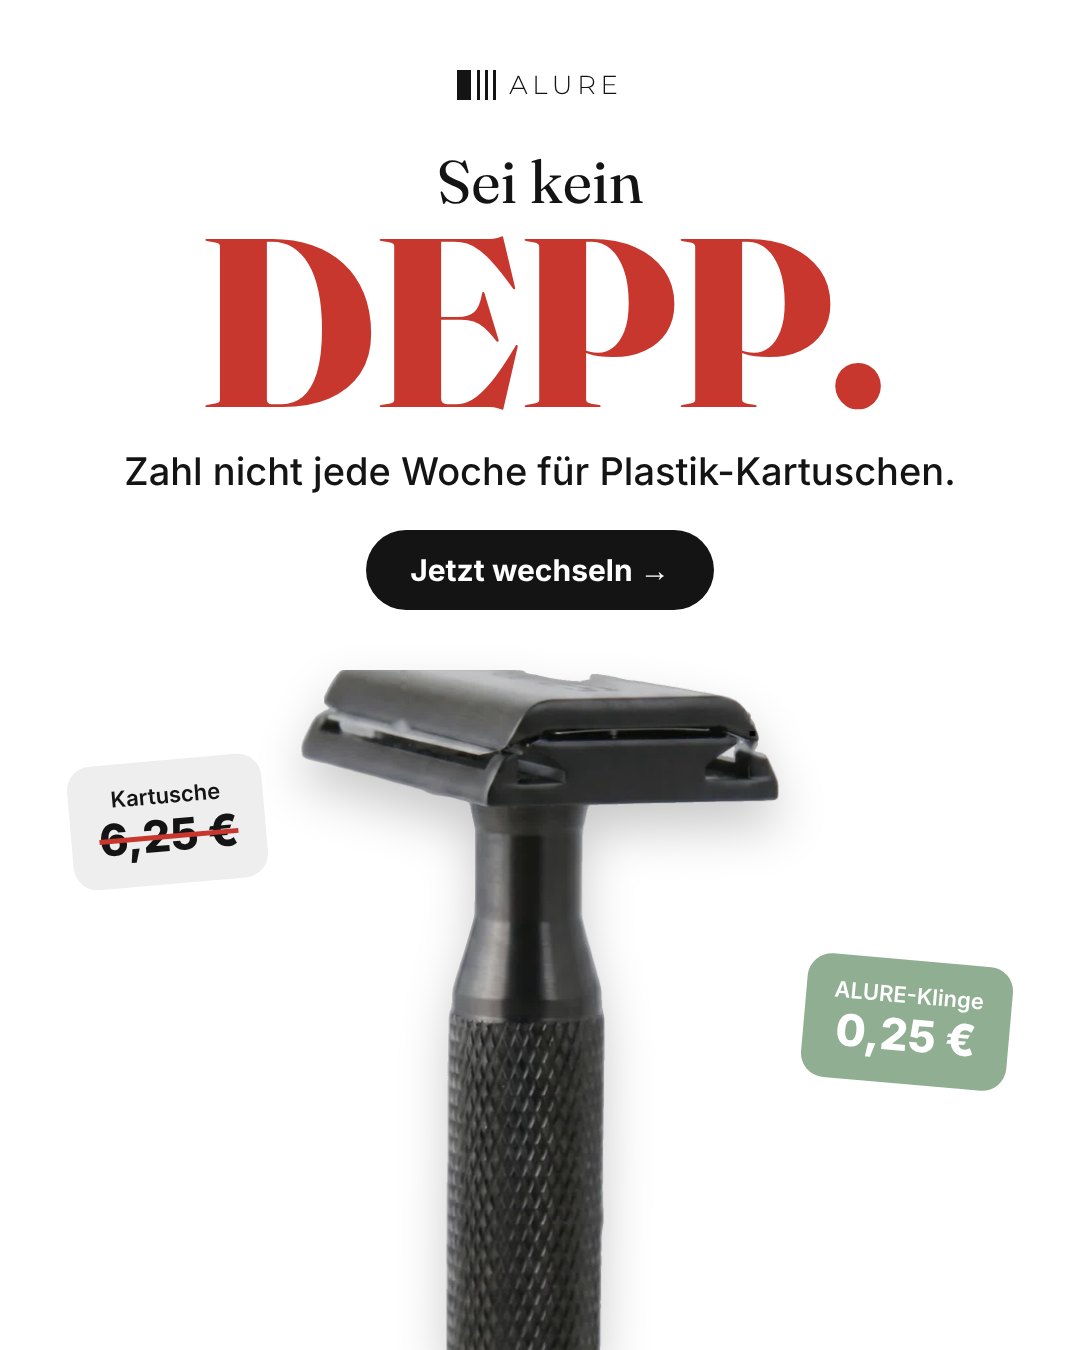
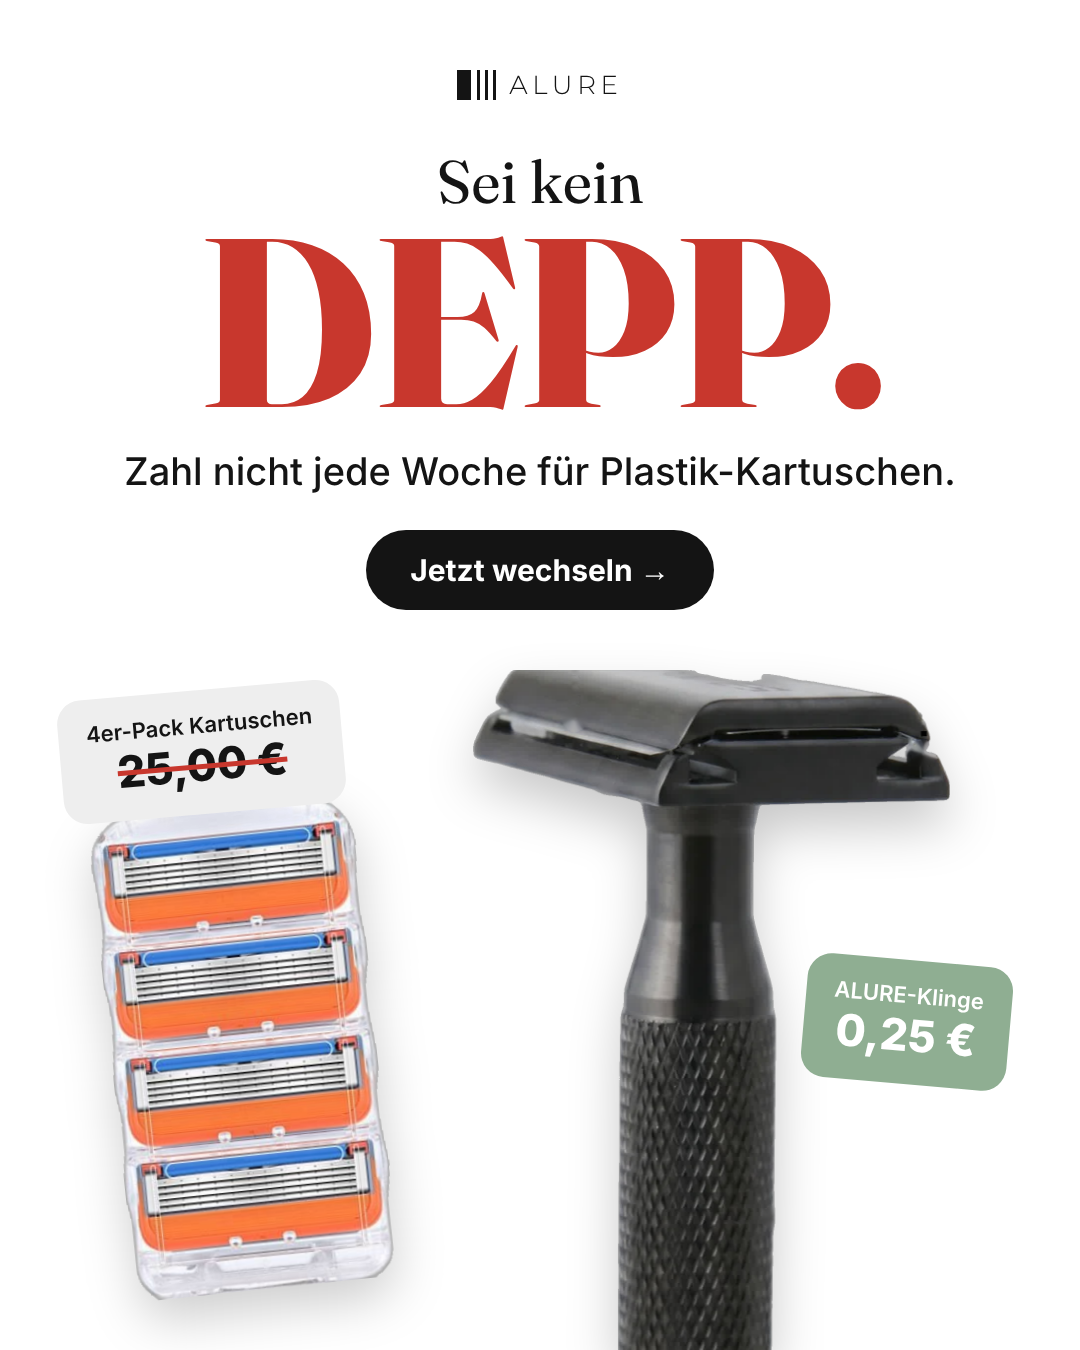
ALURE statics: add competitor razors and cartridges to comparison ads
Claude-Session: https://claude.ai/code/session_019RHRmcEqu6spiYr2K31vQX

Changed region(s): [[0.0611, 0.4978, 0.8861, 1.0]]

diff --git a/marketing/alure-statics-de/source-fr.html b/marketing/alure-statics-de/source-fr.html
@@ -47,6 +47,9 @@ img{display:block}
     <div class="logo"><b></b><i></i><i></i><i></i><span>ALURE</span></div>
     <p style="font-size:30px;margin-top:20px;font-weight:600">Une lame. Format standard.<br>Zéro abonnement cartouches.</p>
   </div>
+  <img src="source-assets/cartridge_head.png" style="position:absolute;left:80px;top:730px;width:400px;filter:drop-shadow(0 20px 25px rgba(0,0,0,.2))">
+  <div style="position:absolute;left:80px;top:910px;font-size:24px;font-weight:700;letter-spacing:.12em;color:var(--red)">CARTOUCHE · 5 LAMES</div>
+  <div style="position:absolute;right:60px;top:615px;width:466px;text-align:center;font-size:24px;font-weight:700;letter-spacing:.12em;color:var(--sage-d)">ALURE · 1 LAME</div>
 </section>
 
 <!-- 03 DON'T BE AN IDIOT -->
@@ -57,9 +60,10 @@ img{display:block}
     <div class="serif" style="font-size:240px;line-height:.85;font-weight:800;color:var(--red);letter-spacing:-.02em;font-size:200px">PIGEON.</div>
     <p style="font-size:38px;margin-top:26px;font-weight:500">Arrête de payer des cartouches en plastique.</p>
   </div>
-  <img src="source-assets/razor_black.png" style="position:absolute;left:50%;transform:translateX(-50%);bottom:0;height:680px;filter:drop-shadow(0 25px 25px rgba(0,0,0,.22))">
-  <div style="position:absolute;left:70px;top:760px;background:#eee;border-radius:24px;padding:22px 28px;transform:rotate(-5deg);text-align:center">
-    <div style="font-size:22px;font-weight:600">Cartouche</div><div style="font-size:44px;font-weight:800;text-decoration:line-through;text-decoration-color:var(--red);text-decoration-thickness:5px">6,25 €</div>
+  <img src="source-assets/razor_black.png" style="position:absolute;right:130px;bottom:0;height:680px;filter:drop-shadow(0 25px 25px rgba(0,0,0,.22))">
+  <img src="source-assets/cartridge_pack.png" style="position:absolute;left:110px;bottom:60px;height:500px;transform:rotate(-6deg);filter:drop-shadow(0 20px 25px rgba(0,0,0,.2))">
+  <div style="position:absolute;left:60px;top:690px;background:#eee;border-radius:24px;padding:22px 28px;transform:rotate(-5deg);text-align:center;z-index:2">
+    <div style="font-size:22px;font-weight:600">Lot de 4 cartouches</div><div style="font-size:44px;font-weight:800;text-decoration:line-through;text-decoration-color:var(--red);text-decoration-thickness:5px">25,00 €</div>
   </div>
   <div style="position:absolute;right:70px;top:960px;background:var(--sage);color:#fff;border-radius:24px;padding:22px 28px;transform:rotate(5deg);text-align:center">
     <div style="font-size:22px;font-weight:600">Lame ALURE</div><div style="font-size:44px;font-weight:800">0,25 €</div>
@@ -156,7 +160,7 @@ img{display:block}
   <div style="padding:70px 60px 30px;display:flex;justify-content:space-between;align-items:flex-end"><div style="font-size:64px;font-weight:900;letter-spacing:-.02em">Tier list des rasoirs</div><div style="font-size:22px;opacity:.6">(notre avis, assumé)</div></div>
   <div style="margin:0 60px" id="tiers"></div>
   <div class="foot" style="color:#fff"><div class="logo"><b></b><i></i><i></i><i></i><span>ALURE</span></div><div class="url">byalure.com</div></div>
-  <script>[["S","#e57373",'<div style="border-radius:10px;width:110px;height:150px;background:#dadde1;position:relative;overflow:hidden;flex:none"><img src="source-assets/razor_black.png" style="position:absolute;bottom:0;left:50%;transform:translateX(-50%);height:140px"></div> <span>Rasoir de sûreté à lame bloquée</span>'],["A","#f0a868","<span>Rasoir de sûreté classique</span>"],["B","#f3d36b","<span>Rasoir électrique</span>"],["C","#a5d68a","<span>Rasoir 5 lames à cartouches</span>"],["D","#7fb3e0","<span>Rasoir jetable en plastique</span>"]].forEach(t=>document.getElementById('tiers').insertAdjacentHTML('beforeend',`<div style="display:flex;min-height:${t[0]=='S'?190:170}px;margin-bottom:8px"><div style="width:170px;background:${t[1]};display:flex;align-items:center;justify-content:center;font-size:84px;font-weight:900;color:#161616">${t[0]}</div><div style="flex:1;background:#262626;display:flex;align-items:center;gap:26px;padding:0 30px;font-size:34px;font-weight:600">${t[2]}</div></div>`))</script>
+  <script>[["S","#e57373",'<div style="border-radius:10px;width:110px;height:150px;background:#dadde1;position:relative;overflow:hidden;flex:none"><img src="source-assets/razor_black.png" style="position:absolute;bottom:0;left:50%;transform:translateX(-50%);height:140px"></div> <span>Rasoir de sûreté à lame bloquée</span>'],["A","#f0a868",'<div style=\'width:110px;height:150px;background:#dadde1;border-radius:10px;display:flex;align-items:center;justify-content:center;flex:none\'><img src=\'source-assets/classic_safety.png\' style=\'max-width:95px;max-height:135px\'></div> <span>Rasoir de sûreté classique</span>'],["B","#f3d36b","<span>Rasoir électrique</span>"],["C","#a5d68a",'<div style=\'width:110px;height:150px;background:#dadde1;border-radius:10px;display:flex;align-items:center;justify-content:center;flex:none\'><img src=\'source-assets/five_blade.png\' style=\'max-width:95px;max-height:135px\'></div> <span>Rasoir 5 lames à cartouches</span>'],["D","#7fb3e0",'<div style=\'width:110px;height:150px;background:#dadde1;border-radius:10px;display:flex;align-items:center;justify-content:center;flex:none\'><img src=\'source-assets/disposable.png\' style=\'max-width:95px;max-height:135px\'></div> <span>Rasoir jetable en plastique</span>']].forEach(t=>document.getElementById('tiers').insertAdjacentHTML('beforeend',`<div style="display:flex;min-height:${t[0]=='S'?190:170}px;margin-bottom:8px"><div style="width:170px;background:${t[1]};display:flex;align-items:center;justify-content:center;font-size:84px;font-weight:900;color:#161616">${t[0]}</div><div style="flex:1;background:#262626;display:flex;align-items:center;gap:26px;padding:0 30px;font-size:34px;font-weight:600">${t[2]}</div></div>`))</script>
 </section>
 
 <!-- 11 VENN DIAGRAM -->
@@ -344,7 +348,7 @@ img{display:block}
   <div style="position:absolute;left:70px;top:70px;background:var(--ink);color:#fff;padding:12px 26px;border-radius:12px;font-weight:800;font-size:26px;letter-spacing:.1em">ALURE</div>
   <h1 style="position:absolute;left:70px;right:70px;top:150px;font-size:76px;line-height:1.02;font-weight:900;letter-spacing:-.02em">5 SIGNES QUE TU UTILISES LE MAUVAIS RASOIR</h1>
   <div id="signs" style="position:absolute;left:70px;top:520px;width:450px"></div>
-  <img src="source-assets/razor_black.png" style="position:absolute;right:20px;bottom:0;height:760px">
+  <img src="source-assets/five_blade.png" style="position:absolute;right:120px;top:560px;height:720px;transform:rotate(8deg);filter:drop-shadow(0 20px 25px rgba(0,0,0,.2))">
   <script>["Tu rachètes des cartouches tous les mois.","Ton rasoir est en plastique.","Tu dois appuyer fort pour qu'il coupe.","Après rinçage, il reste encore des poils coincés.","Tu ne sais pas combien il te coûte par an."].forEach((s,i)=>document.getElementById('signs').insertAdjacentHTML('beforeend',`<div style="display:flex;gap:22px;align-items:flex-start;margin-bottom:30px"><div style="min-width:60px;height:60px;border-radius:50%;background:var(--sage-d);color:#fff;display:flex;align-items:center;justify-content:center;font-weight:800;font-size:30px">${i+1}</div><div style="font-size:33px;font-weight:600;line-height:1.25;padding-top:8px">${s}</div></div>`))</script>
 </section>
 
@@ -400,7 +404,7 @@ img{display:block}
   <div style="position:absolute;inset:0;background:#f5f5f5;padding:60px 50px">
     <div style="background:#fff;border:1px solid #ddd;border-radius:14px;padding:16px 26px;font-size:24px;color:#555">🔍 &nbsp;cartouches rasoir lot de 4</div>
     <div style="display:flex;gap:30px;margin-top:40px">
-      <div style="width:260px;height:260px;background:#e3eaf3;border-radius:14px;display:flex;align-items:center;justify-content:center;font-size:120px">📦</div>
+      <div style="width:260px;height:260px;background:#fff;border:1px solid #e3e3e3;border-radius:14px;display:flex;align-items:center;justify-content:center;flex:none"><img src="source-assets/cartridge_pack.png" style="max-height:236px"></div>
       <div style="font-size:30px;line-height:1.4"><div style="font-weight:700">Cartouches 5 lames, lot de 4</div><div style="color:#888">★★★★☆ (2.413)</div><div style="font-size:64px;font-weight:800;color:#B12704;margin-top:10px">25,00 €</div><div style="color:#888">6,25 € / pièce</div></div>
     </div>
   </div>
@@ -434,7 +438,8 @@ img{display:block}
       <div style="display:flex;justify-content:space-between;font-weight:700;font-size:34px"><span>TOTAL</span><span style="color:var(--sage-d)">74,00</span></div>
     </div>
   </div>
-  <img src="source-assets/razor_silver.png" style="position:absolute;left:50%;transform:translateX(-50%);bottom:0;height:380px;filter:drop-shadow(0 20px 24px rgba(0,0,0,.18))">
+  <img src="source-assets/five_blade.png" style="position:absolute;left:222px;bottom:40px;height:360px;filter:drop-shadow(0 20px 25px rgba(0,0,0,.2))">
+  <img src="source-assets/razor_silver.png" style="position:absolute;left:674px;bottom:0;height:380px;filter:drop-shadow(0 20px 24px rgba(0,0,0,.18))">
   <div class="fn" style="position:absolute;left:70px;right:70px;top:905px;text-align:center">Calcul d'exemple : 1 cartouche toutes les 2 semaines, lot de 4 à 25 €. Les prix varient selon les magasins.</div>
 </section>
 
@@ -473,6 +478,8 @@ img{display:block}
     <p style="font-size:38px;line-height:1.35;margin-top:36px;max-width:820px">Ça marche aussi avec <b>une seule</b> lame. Bien serrée, angle déjà réglé, et sans abonnement.</p>
   </div>
   <img src="source-assets/razor_silver.png" style="position:absolute;right:90px;bottom:0;height:680px;filter:drop-shadow(0 30px 30px rgba(0,0,0,.18))">
+  <img src="source-assets/five_blade.png" style="position:absolute;left:130px;top:690px;height:430px;transform:rotate(-8deg);filter:drop-shadow(0 20px 25px rgba(0,0,0,.2))">
+  <svg style="position:absolute;left:330px;top:840px" width="170" height="80" fill="none" stroke="#4F6E55" stroke-width="8" stroke-linecap="round" stroke-linejoin="round"><path d="M10 40 H150"/><path d="M118 10 L152 40 L118 70"/></svg>
   <div style="position:absolute;left:80px;bottom:90px"><div class="cta">Voir comment ça marche →</div></div>
 </section>
 
@@ -496,6 +503,8 @@ img{display:block}
     <div class="cta" style="background:var(--sage-d);margin-top:40px">VOIR LE RASOIR</div>
   </div>
   <img src="source-assets/razor_silver.png" style="position:absolute;right:40px;bottom:0;height:640px;filter:drop-shadow(0 30px 30px rgba(0,0,0,.2))">
+  <img src="source-assets/cartridge_pack.png" style="position:absolute;left:90px;bottom:130px;height:360px;filter:drop-shadow(0 20px 25px rgba(0,0,0,.2))">
+  <div style="position:absolute;left:300px;bottom:330px;background:#eee;border-radius:20px;padding:14px 22px;font-size:28px;font-weight:800;transform:rotate(-4deg)">Lot de 4 : 25 €</div>
   <div class="fn" style="position:absolute;left:70px;right:500px;bottom:40px">Calcul d'exemple : 1 cartouche toutes les 2 semaines, lot de 4 à 25 € · 100 lames ALURE à 25 € durent environ deux ans.</div>
 </section>
 

diff --git a/marketing/alure-statics-de/source-de.html b/marketing/alure-statics-de/source-de.html
@@ -47,6 +47,9 @@ img{display:block}
     <div class="logo"><b></b><i></i><i></i><i></i><span>ALURE</span></div>
     <p style="font-size:30px;margin-top:20px;font-weight:600">Eine Klinge. Standardgröße.<br>Kein Kartuschen-Abo.</p>
   </div>
+  <img src="source-assets/cartridge_head.png" style="position:absolute;left:80px;top:730px;width:400px;filter:drop-shadow(0 20px 25px rgba(0,0,0,.2))">
+  <div style="position:absolute;left:80px;top:910px;font-size:24px;font-weight:700;letter-spacing:.12em;color:var(--red)">KARTUSCHE · 5 KLINGEN</div>
+  <div style="position:absolute;right:60px;top:615px;width:466px;text-align:center;font-size:24px;font-weight:700;letter-spacing:.12em;color:var(--sage-d)">ALURE · 1 KLINGE</div>
 </section>
 
 <!-- 03 DON'T BE AN IDIOT -->
@@ -57,9 +60,10 @@ img{display:block}
     <div class="serif" style="font-size:240px;line-height:.85;font-weight:800;color:var(--red);letter-spacing:-.02em">DEPP.</div>
     <p style="font-size:38px;margin-top:26px;font-weight:500">Zahl nicht jede Woche für Plastik-Kartuschen.</p>
   </div>
-  <img src="source-assets/razor_black.png" style="position:absolute;left:50%;transform:translateX(-50%);bottom:0;height:680px;filter:drop-shadow(0 25px 25px rgba(0,0,0,.22))">
-  <div style="position:absolute;left:70px;top:760px;background:#eee;border-radius:24px;padding:22px 28px;transform:rotate(-5deg);text-align:center">
-    <div style="font-size:22px;font-weight:600">Kartusche</div><div style="font-size:44px;font-weight:800;text-decoration:line-through;text-decoration-color:var(--red);text-decoration-thickness:5px">6,25 €</div>
+  <img src="source-assets/razor_black.png" style="position:absolute;right:130px;bottom:0;height:680px;filter:drop-shadow(0 25px 25px rgba(0,0,0,.22))">
+  <img src="source-assets/cartridge_pack.png" style="position:absolute;left:110px;bottom:60px;height:500px;transform:rotate(-6deg);filter:drop-shadow(0 20px 25px rgba(0,0,0,.2))">
+  <div style="position:absolute;left:60px;top:690px;background:#eee;border-radius:24px;padding:22px 28px;transform:rotate(-5deg);text-align:center;z-index:2">
+    <div style="font-size:22px;font-weight:600">4er-Pack Kartuschen</div><div style="font-size:44px;font-weight:800;text-decoration:line-through;text-decoration-color:var(--red);text-decoration-thickness:5px">25,00 €</div>
   </div>
   <div style="position:absolute;right:70px;top:960px;background:var(--sage);color:#fff;border-radius:24px;padding:22px 28px;transform:rotate(5deg);text-align:center">
     <div style="font-size:22px;font-weight:600">ALURE-Klinge</div><div style="font-size:44px;font-weight:800">0,25 €</div>
@@ -156,7 +160,7 @@ img{display:block}
   <div style="padding:70px 60px 30px;display:flex;justify-content:space-between;align-items:flex-end"><div style="font-size:64px;font-weight:900;letter-spacing:-.02em">Rasierer-Tierlist</div><div style="font-size:22px;opacity:.6">(unsere ehrliche Meinung)</div></div>
   <div style="margin:0 60px" id="tiers"></div>
   <div class="foot" style="color:#fff"><div class="logo"><b></b><i></i><i></i><i></i><span>ALURE</span></div><div class="url">byalure.com</div></div>
-  <script>[["S","#e57373",'<div style="border-radius:10px;width:110px;height:150px;background:#dadde1;position:relative;overflow:hidden;flex:none"><img src="source-assets/razor_black.png" style="position:absolute;bottom:0;left:50%;transform:translateX(-50%);height:140px"></div> <span>Rasierhobel mit fest eingespannter Klinge</span>'],["A","#f0a868","<span>Klassischer Rasierhobel</span>"],["B","#f3d36b","<span>Elektrorasierer</span>"],["C","#a5d68a","<span>5-Klingen-System mit Kartuschen</span>"],["D","#7fb3e0","<span>Einwegrasierer aus Plastik</span>"]].forEach(t=>document.getElementById('tiers').insertAdjacentHTML('beforeend',`<div style="display:flex;min-height:${t[0]=='S'?190:170}px;margin-bottom:8px"><div style="width:170px;background:${t[1]};display:flex;align-items:center;justify-content:center;font-size:84px;font-weight:900;color:#161616">${t[0]}</div><div style="flex:1;background:#262626;display:flex;align-items:center;gap:26px;padding:0 30px;font-size:34px;font-weight:600">${t[2]}</div></div>`))</script>
+  <script>[["S","#e57373",'<div style="border-radius:10px;width:110px;height:150px;background:#dadde1;position:relative;overflow:hidden;flex:none"><img src="source-assets/razor_black.png" style="position:absolute;bottom:0;left:50%;transform:translateX(-50%);height:140px"></div> <span>Rasierhobel mit fest eingespannter Klinge</span>'],["A","#f0a868",'<div style=\'width:110px;height:150px;background:#dadde1;border-radius:10px;display:flex;align-items:center;justify-content:center;flex:none\'><img src=\'source-assets/classic_safety.png\' style=\'max-width:95px;max-height:135px\'></div> <span>Klassischer Rasierhobel</span>'],["B","#f3d36b","<span>Elektrorasierer</span>"],["C","#a5d68a",'<div style=\'width:110px;height:150px;background:#dadde1;border-radius:10px;display:flex;align-items:center;justify-content:center;flex:none\'><img src=\'source-assets/five_blade.png\' style=\'max-width:95px;max-height:135px\'></div> <span>5-Klingen-System mit Kartuschen</span>'],["D","#7fb3e0",'<div style=\'width:110px;height:150px;background:#dadde1;border-radius:10px;display:flex;align-items:center;justify-content:center;flex:none\'><img src=\'source-assets/disposable.png\' style=\'max-width:95px;max-height:135px\'></div> <span>Einwegrasierer aus Plastik</span>']].forEach(t=>document.getElementById('tiers').insertAdjacentHTML('beforeend',`<div style="display:flex;min-height:${t[0]=='S'?190:170}px;margin-bottom:8px"><div style="width:170px;background:${t[1]};display:flex;align-items:center;justify-content:center;font-size:84px;font-weight:900;color:#161616">${t[0]}</div><div style="flex:1;background:#262626;display:flex;align-items:center;gap:26px;padding:0 30px;font-size:34px;font-weight:600">${t[2]}</div></div>`))</script>
 </section>
 
 <!-- 11 VENN DIAGRAM -->
@@ -344,7 +348,7 @@ img{display:block}
   <div style="position:absolute;left:70px;top:70px;background:var(--ink);color:#fff;padding:12px 26px;border-radius:12px;font-weight:800;font-size:26px;letter-spacing:.1em">ALURE</div>
   <h1 style="position:absolute;left:70px;right:70px;top:150px;font-size:76px;line-height:1.02;font-weight:900;letter-spacing:-.02em">5 ZEICHEN, DASS DU DEN FALSCHEN RASIERER BENUTZT</h1>
   <div id="signs" style="position:absolute;left:70px;top:520px;width:450px"></div>
-  <img src="source-assets/razor_black.png" style="position:absolute;right:20px;bottom:0;height:760px">
+  <img src="source-assets/five_blade.png" style="position:absolute;right:120px;top:560px;height:720px;transform:rotate(8deg);filter:drop-shadow(0 20px 25px rgba(0,0,0,.2))">
   <script>["Du kaufst jeden Monat Kartuschen nach.","Dein Rasierer ist aus Plastik.","Du drückst fest, damit er überhaupt schneidet.","Nach dem Ausspülen hängen immer noch Haare drin.","Du weißt nicht, was er dich im Jahr kostet."].forEach((s,i)=>document.getElementById('signs').insertAdjacentHTML('beforeend',`<div style="display:flex;gap:22px;align-items:flex-start;margin-bottom:30px"><div style="min-width:60px;height:60px;border-radius:50%;background:var(--sage-d);color:#fff;display:flex;align-items:center;justify-content:center;font-weight:800;font-size:30px">${i+1}</div><div style="font-size:33px;font-weight:600;line-height:1.25;padding-top:8px">${s}</div></div>`))</script>
 </section>
 
@@ -400,7 +404,7 @@ img{display:block}
   <div style="position:absolute;inset:0;background:#f5f5f5;padding:60px 50px">
     <div style="background:#fff;border:1px solid #ddd;border-radius:14px;padding:16px 26px;font-size:24px;color:#555">🔍 &nbsp;rasierklingen kartuschen 4er pack</div>
     <div style="display:flex;gap:30px;margin-top:40px">
-      <div style="width:260px;height:260px;background:#e3eaf3;border-radius:14px;display:flex;align-items:center;justify-content:center;font-size:120px">📦</div>
+      <div style="width:260px;height:260px;background:#fff;border:1px solid #e3e3e3;border-radius:14px;display:flex;align-items:center;justify-content:center;flex:none"><img src="source-assets/cartridge_pack.png" style="max-height:236px"></div>
       <div style="font-size:30px;line-height:1.4"><div style="font-weight:700">Systemklingen, 4 Stück, 5-fach</div><div style="color:#888">★★★★☆ (2.413)</div><div style="font-size:64px;font-weight:800;color:#B12704;margin-top:10px">25,00 €</div><div style="color:#888">6,25 € / Stück</div></div>
     </div>
   </div>
@@ -434,7 +438,8 @@ img{display:block}
       <div style="display:flex;justify-content:space-between;font-weight:700;font-size:34px"><span>SUMME</span><span style="color:var(--sage-d)">74,00</span></div>
     </div>
   </div>
-  <img src="source-assets/razor_silver.png" style="position:absolute;left:50%;transform:translateX(-50%);bottom:0;height:380px;filter:drop-shadow(0 20px 24px rgba(0,0,0,.18))">
+  <img src="source-assets/five_blade.png" style="position:absolute;left:222px;bottom:40px;height:360px;filter:drop-shadow(0 20px 25px rgba(0,0,0,.2))">
+  <img src="source-assets/razor_silver.png" style="position:absolute;left:674px;bottom:0;height:380px;filter:drop-shadow(0 20px 24px rgba(0,0,0,.18))">
   <div class="fn" style="position:absolute;left:70px;right:70px;top:905px;text-align:center">Beispielrechnung: 1 Kartusche alle 2 Wochen, 4er-Pack für 25 €. Preise im Handel variieren.</div>
 </section>
 
@@ -473,6 +478,8 @@ img{display:block}
     <p style="font-size:38px;line-height:1.35;margin-top:36px;max-width:820px">Es geht auch mit <b>einer</b> Klinge. Fest eingespannt, Winkel schon eingestellt – und ohne Abo.</p>
   </div>
   <img src="source-assets/razor_silver.png" style="position:absolute;right:90px;bottom:0;height:680px;filter:drop-shadow(0 30px 30px rgba(0,0,0,.18))">
+  <img src="source-assets/five_blade.png" style="position:absolute;left:130px;top:690px;height:430px;transform:rotate(-8deg);filter:drop-shadow(0 20px 25px rgba(0,0,0,.2))">
+  <svg style="position:absolute;left:330px;top:840px" width="170" height="80" fill="none" stroke="#4F6E55" stroke-width="8" stroke-linecap="round" stroke-linejoin="round"><path d="M10 40 H150"/><path d="M118 10 L152 40 L118 70"/></svg>
   <div style="position:absolute;left:80px;bottom:90px"><div class="cta">So funktioniert's →</div></div>
 </section>
 
@@ -496,6 +503,8 @@ img{display:block}
     <div class="cta" style="background:var(--sage-d);margin-top:40px">JETZT ANSEHEN</div>
   </div>
   <img src="source-assets/razor_silver.png" style="position:absolute;right:40px;bottom:0;height:640px;filter:drop-shadow(0 30px 30px rgba(0,0,0,.2))">
+  <img src="source-assets/cartridge_pack.png" style="position:absolute;left:90px;bottom:130px;height:360px;filter:drop-shadow(0 20px 25px rgba(0,0,0,.2))">
+  <div style="position:absolute;left:300px;bottom:330px;background:#eee;border-radius:20px;padding:14px 22px;font-size:28px;font-weight:800;transform:rotate(-4deg)">4er-Pack: 25 €</div>
   <div class="fn" style="position:absolute;left:70px;right:500px;bottom:40px">Beispielrechnung: 1 Kartusche alle 2 Wochen, 4er-Pack für 25 € · 100 ALURE-Klingen für 25 € reichen ca. zwei Jahre.</div>
 </section>
 
